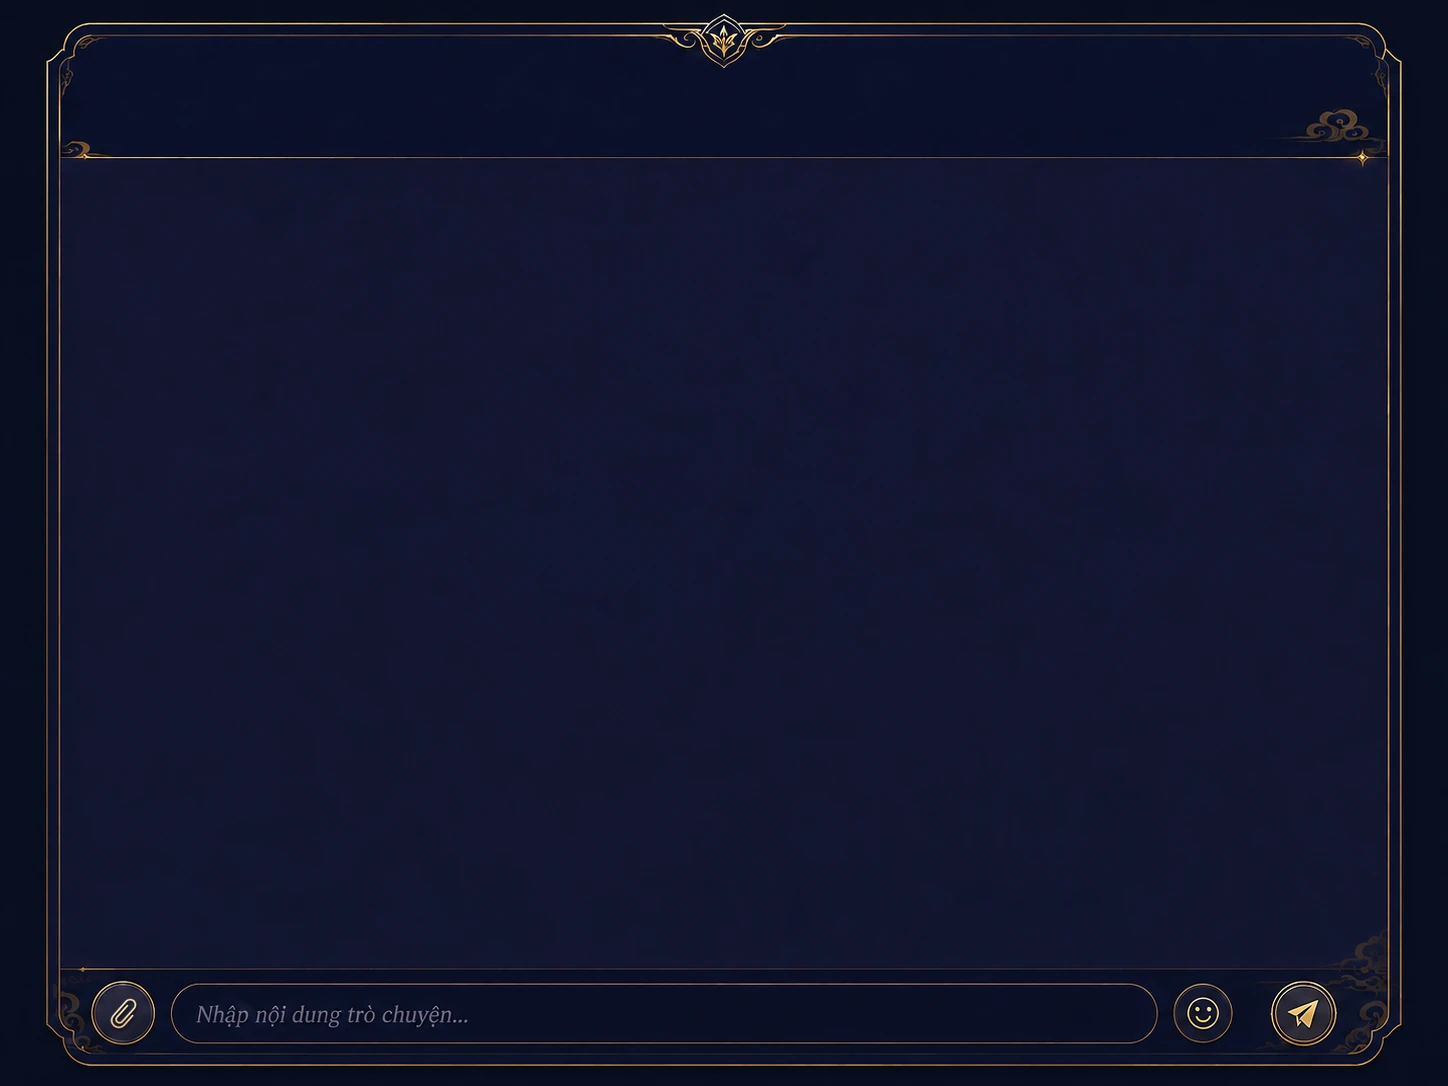
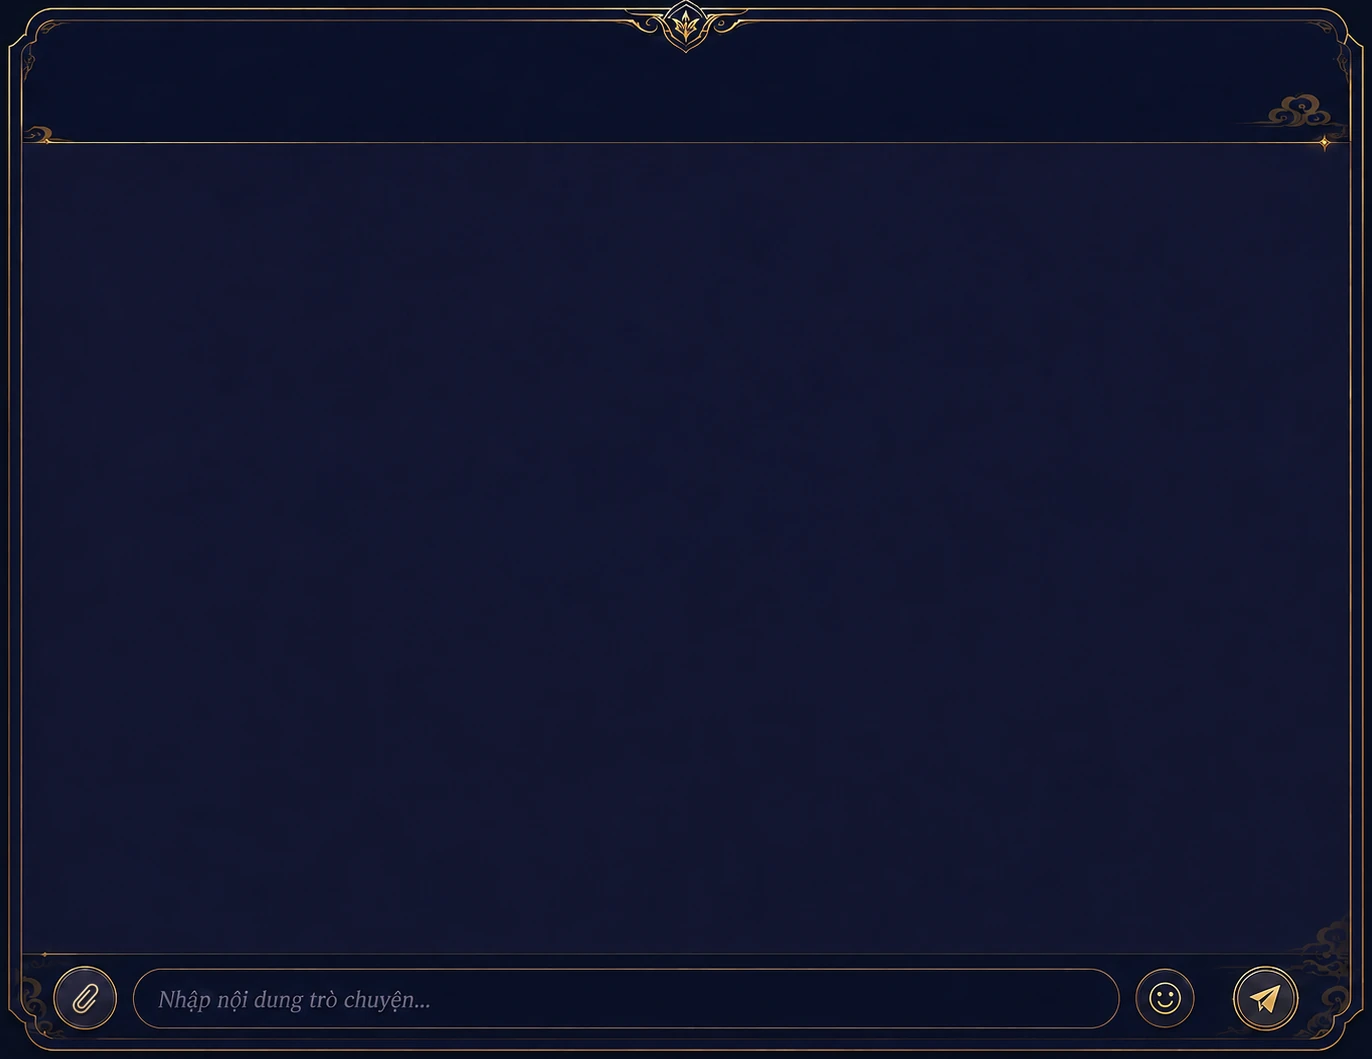
fix(chat): cắt rìa nền thừa của tấm khung, nới khung 15%, sửa con trỏ và chữ mời
Ba việc, và việc đầu kéo theo hai việc sau vì nó đổi hệ quy chiếu.

1. Tấm khung còn một vành nền đặc chìa ra ngoài nét viền — trái/phải 46px, trên
   23px, dưới 20px (đo bằng cách quét tìm điểm ảnh vàng đầu tiên). Cắt còn đệm
   8px đều; giữ 8px chứ không cắt sát vì đỉnh ấn vươn cao hơn nét viền ngang và
   cắt sát là phạm vào quầng sáng của nó. Ảnh 1448×1086 → 1372×1059, 36KB. Cắt
   từ bản PNG gốc chứ không cắt lại từ .webp — nén hai lần là chồng mất mát.

2. Cắt xong thì MỌI toạ độ phần trăm lệch, nên tính lại toàn bộ bằng script từ
   pixel gốc thay vì bấm tay: ba hotspot, ô nhập, tấm che, vùng tin, dải tiêu
   đề, nút về-cuối, chồng khay, khay chọn. Tỉ lệ khung theo đó đổi từ 4:3 sang
   1372/1059. Nới thêm 15% theo yêu cầu; phép min(100%, …) vẫn kẹp bề ngang nên
   màn hẹp thu khung lại theo bề rộng chứ không tràn.

3. Bấm vào ô nhập thì không thấy con trỏ, mà dòng chữ mời in trong ảnh vẫn nằm
   đó chờ bị gõ đè lên. Nguyên do: cả caret-color lẫn tấm che đều chỉ buộc vào
   lớp .typing — tức phải CÓ CHỮ mới bật. Nay buộc thêm vào :focus, và tấm che
   luôn dựng trong DOM với opacity 0 để bộ chọn anh-em (dấu ngã) với tới được;
   dựng theo điều kiện thì lúc mới bấm nó chưa tồn tại để mà chọn.

Đã đo trên ảnh chụp: ba hotspot và ô nhập vẫn trùng khít hình vẽ sau khi đổi
toạ độ; bấm vào ô là dòng mời biến mất ngay khi chưa gõ chữ nào; bản 420px không
tràn. Route /chat-frame của phiên khác dùng bản .png nên bản cắt này không đụng.

diff --git a/src/app/globals.css b/src/app/globals.css
@@ -458,8 +458,12 @@ body {
   position: relative;
   /* Rộng hết mức có thể NHƯNG không cao quá khung nhìn: `calc((100dvh - 190px) * 4/3)` là bề
      rộng lớn nhất mà chiều cao (rộng × 3/4) vẫn còn chỗ cho thanh đầu trang và dòng ký tên. */
-  width: min(100%, calc((100dvh - 190px) * 4 / 3));
-  aspect-ratio: 1448 / 1086;
+  /* Tỉ lệ của tấm ảnh SAU KHI CẮT rìa nền thừa (1372×1059). Cắt rồi thì mép ảnh gần như
+     trùng nét viền, nên không còn dải nền đặc chìa ra ngoài khung nữa.
+     Hệ số 1.15: đạo hữu yêu cầu nới khung thêm 15% ngày 10/08/2026. `min(100%, …)` vẫn kẹp
+     bề ngang, nên trên màn hẹp khung thu lại theo bề rộng thay vì tràn ra ngoài. */
+  width: min(100%, calc((100dvh - 190px) * 1.15 * 1372 / 1059));
+  aspect-ratio: 1372 / 1059;
   margin: 0 auto;
   /* Mốc của mọi `cqw` bên trong: chữ co theo BỀ RỘNG KHUNG, không theo bề rộng màn hình — nếu
      không thì trên màn siêu rộng khung đứng yên mà chữ cứ phình ra. */
@@ -497,10 +501,10 @@ body {
    để nó nuốt cú bấm thì vùng tin ngay dưới mất một dải cao 12%. */
 .chat-head {
   position: absolute;
-  left: 5.663%;
-  top: 2.6%;
-  width: 88.674%;
-  height: 12.4%;
+  left: 3.2070%;
+  top: 1.2499%;
+  width: 93.5860%;
+  height: 12.7161%;
   display: flex;
   flex-direction: column;
   justify-content: center;
@@ -526,10 +530,10 @@ body {
 /* Vùng tin — đúng ô chữ nhật mà tấm khung chừa ra giữa hai đường kẻ. */
 .chat-scroll {
   position: absolute;
-  left: 5.663%;
-  top: 17.4954%;
-  width: 88.674%;
-  height: 68.8766%;
+  left: 3.2070%;
+  top: 16.5250%;
+  width: 93.5860%;
+  height: 70.6327%;
   overflow-y: auto;
   /* Cuộn hết tin thì DỪNG ở đó, không đẩy tiếp cả trang phía sau. */
   overscroll-behavior: contain;
@@ -875,8 +879,8 @@ body {
 /* Nút "về cuối" đậu ngay trên mép phải của vùng tin, trong lòng khung. */
 .chat-jump {
   position: absolute;
-  right: 7.5%;
-  bottom: 15%;
+  right: 5.1458%;
+  bottom: 14.2493%;
   z-index: 6;
   padding: 0.5cqw 1.2cqw;
   border-radius: 999px;
@@ -892,8 +896,8 @@ body {
    ô nhập nằm ở 91.53%, chừa thêm một nhịp cho khỏi dính. */
 .chat-trays {
   position: absolute;
-  left: 5.663%;
-  bottom: 9.6%;
+  left: 3.2070%;
+  bottom: 8.7116%;
   z-index: 5;
   width: 88.674%;
   display: flex;
@@ -942,8 +946,8 @@ body {
      dòng (tới 120px), nên một khoảng cách cố định sẽ để khay trườn lên đè chính nó. */
   /* Neo vào NÚT tròn trên tấm khung: thanh soạn nay phủ trọn khung nên `100%` của nó
      không còn là mép trên hàng nút nữa. */
-  bottom: 10.5%;
-  right: 7%;
+  bottom: 9.6346%;
+  right: 4.6181%;
   z-index: 20;
   width: min(360px, 46cqw);
   display: flex;
@@ -1148,12 +1152,16 @@ body {
 .chat-input-cover {
   position: absolute;
   z-index: 2;
-  left: 12.9834%;
-  top: 91.4365%;
-  width: 65.6077%;
-  height: 3.9595%;
+  left: 10.9329%;
+  top: 92.3513%;
+  width: 69.2419%;
+  height: 4.0605%;
   border-radius: 999px;
   pointer-events: none;
+  /* Mặc định TRỐNG, và hiện lên theo luật ở dưới. Dùng opacity chứ không display: chuyển
+     mượt được, và phần tử luôn có mặt để bộ chọn `~` với tới. */
+  opacity: 0;
+  transition: opacity 0.12s ease;
   background:
     radial-gradient(circle at 68% 36%, rgba(19, 26, 58, 0.55), transparent 43%),
     linear-gradient(96deg, #0c122b 0%, #091027 55%, #071024 100%);
@@ -1165,10 +1173,10 @@ body {
 .chat-input {
   position: absolute;
   z-index: 3;
-  left: 13.1215%;
-  top: 91.5285%;
-  width: 65.3315%;
-  height: 3.8674%;
+  left: 11.0787%;
+  top: 92.4457%;
+  width: 68.9504%;
+  height: 3.9660%;
   padding: 0;
   border: 0;
   outline: 0;
@@ -1182,9 +1190,19 @@ body {
   font: italic clamp(12px, 1.6575cqw, 24px) / 1.333 "Times New Roman", Times, serif;
 }
 
+/* Bấm vào ô là THẤY NGAY con trỏ, và dòng mời in trong ảnh biến mất — không phải đợi gõ ký
+   tự đầu tiên. Trước đây cả hai đều buộc vào `.typing` (tức là có chữ), nên lúc mới bấm vào
+   người ta gặp một ô câm: không con trỏ, mà chữ mời vẫn nằm đó chờ bị gõ đè lên.
+   Vẫn giữ nhánh `.typing` cho lúc ô mất focus mà chữ còn nguyên. */
+.chat-input:focus,
 .chat-input.typing {
   color: #d4ced6;
   caret-color: var(--color-gold-400);
+}
+
+.chat-input:focus ~ .chat-input-cover,
+.chat-input.typing ~ .chat-input-cover {
+  opacity: 1;
 }
 
 .chat-editbox { display: block; }

diff --git a/src/app/chat/ChatRoom.tsx b/src/app/chat/ChatRoom.tsx
@@ -70,9 +70,9 @@ const TRIGGER_ATTR = "data-chat-popup-trigger";
  * không tay nào chép lại được quầng sáng và vân mây của một tấm ảnh.
  */
 const FRAME_HOTSPOTS = {
-  attach: { left: "6.2845%", top: "90.3315%", width: "4.4199%", height: "5.8932%" },
-  picker: { left: "81.0083%", top: "90.5157%", width: "4.1436%", height: "5.5249%" },
-  send: { left: "87.7072%", top: "90.2394%", width: "4.6961%", height: "6.2615%" },
+  attach: { left: "3.8629%", top: "91.2181%", width: "4.6647%", height: "6.0435%" },
+  picker: { left: "82.7260%", top: "91.4070%", width: "4.3731%", height: "5.6658%" },
+  send: { left: "89.7959%", top: "91.1237%", width: "4.9562%", height: "6.4211%" },
 } as const;
 
 const fmtTime = (iso: string) =>
@@ -714,8 +714,9 @@ export function ChatRoom({
           {/* Chỉ hiện khi đang tải — lúc rảnh nút phải TRỐNG để lộ hình chiếc kẹp vẽ trong ảnh. */}
           {uploading && <span className="chat-hotspot-busy">…</span>}
         </button>
-        {/* Ô nhập trong suốt đặt trùng lên khung đã vẽ. Không placeholder: chữ mời đã in trong
-            ảnh, và `.chat-input-cover` che nó đi ngay khi có người gõ. */}
+        {/* Ô nhập trong suốt đặt trùng lên khung đã vẽ. Không dùng thuộc tính `placeholder`:
+            chữ mời đã in sẵn trong ảnh, và `.chat-input-cover` xoá nó đi — ngay từ lúc BẤM VÀO
+            chứ không đợi gõ chữ đầu tiên (xem ghi chú ở lớp ấy). */}
         <textarea
           ref={inputRef}
           value={text}
@@ -745,9 +746,11 @@ export function ChatRoom({
           aria-label="Nhập nội dung trò chuyện"
           className={`chat-input ${text ? "typing" : ""}`}
         />
-        {/* Tấm che dòng chữ mời in sẵn trong ảnh. Chỉ dựng khi đã có chữ — nằm DƯỚI textarea
-            theo z-index nên không chắn con trỏ. */}
-        {text && <div className="chat-input-cover" aria-hidden />}
+        {/* Tấm che dòng chữ mời in sẵn trong ảnh. LUÔN dựng, và để CSS quyết lúc nào hiện —
+            `.chat-input:focus ~ &` cần nó có mặt trong DOM để chọn tới. Dựng theo điều kiện
+            như trước thì lúc mới bấm vào ô (chưa gõ) nó chưa tồn tại, và dòng mời nằm chồng
+            lên con trỏ. Nằm DƯỚI textarea theo z-index nên không chắn cú bấm nào. */}
+        <div className="chat-input-cover" aria-hidden />
         {/* Hai nút phải: khay Emoji/sticker/GIF và ấn Truyền Âm. Cả hai là vùng bấm TRỐNG —
             mặt cười và cánh én đã được vẽ trong tấm khung, thêm icon nữa là đè hai lớp. */}
         <button
